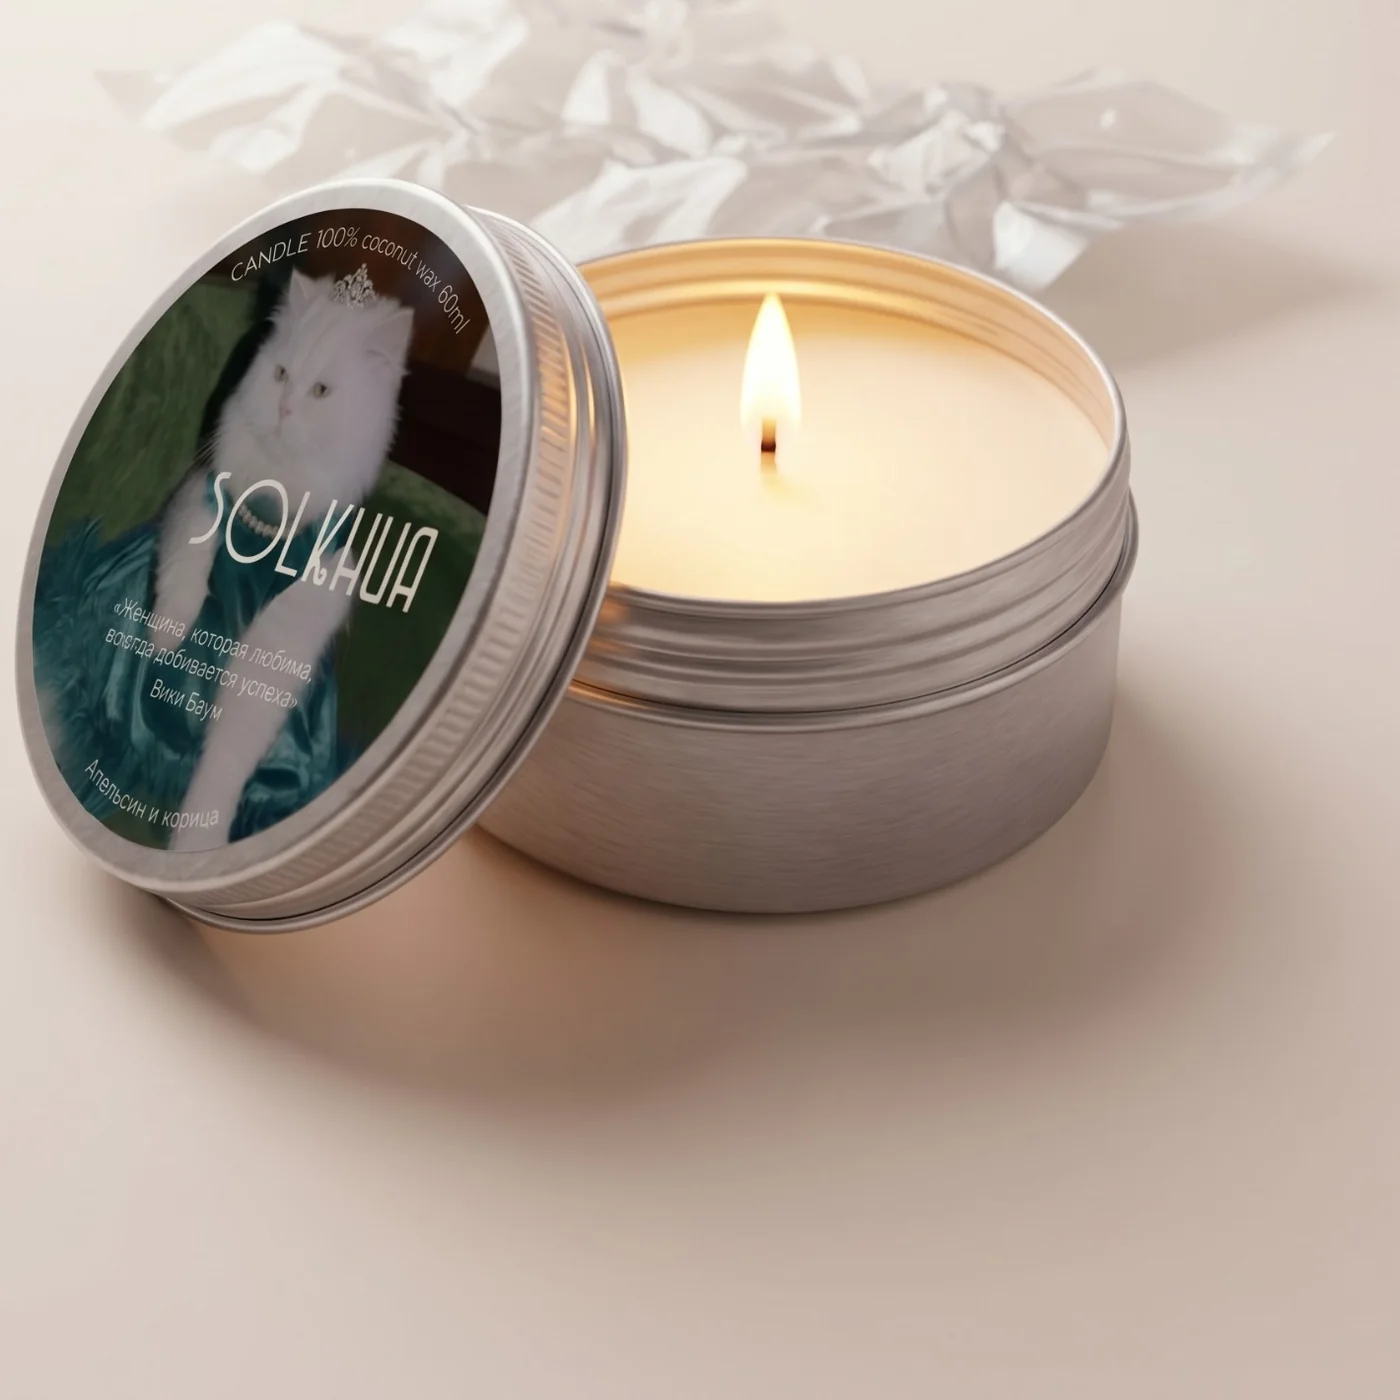
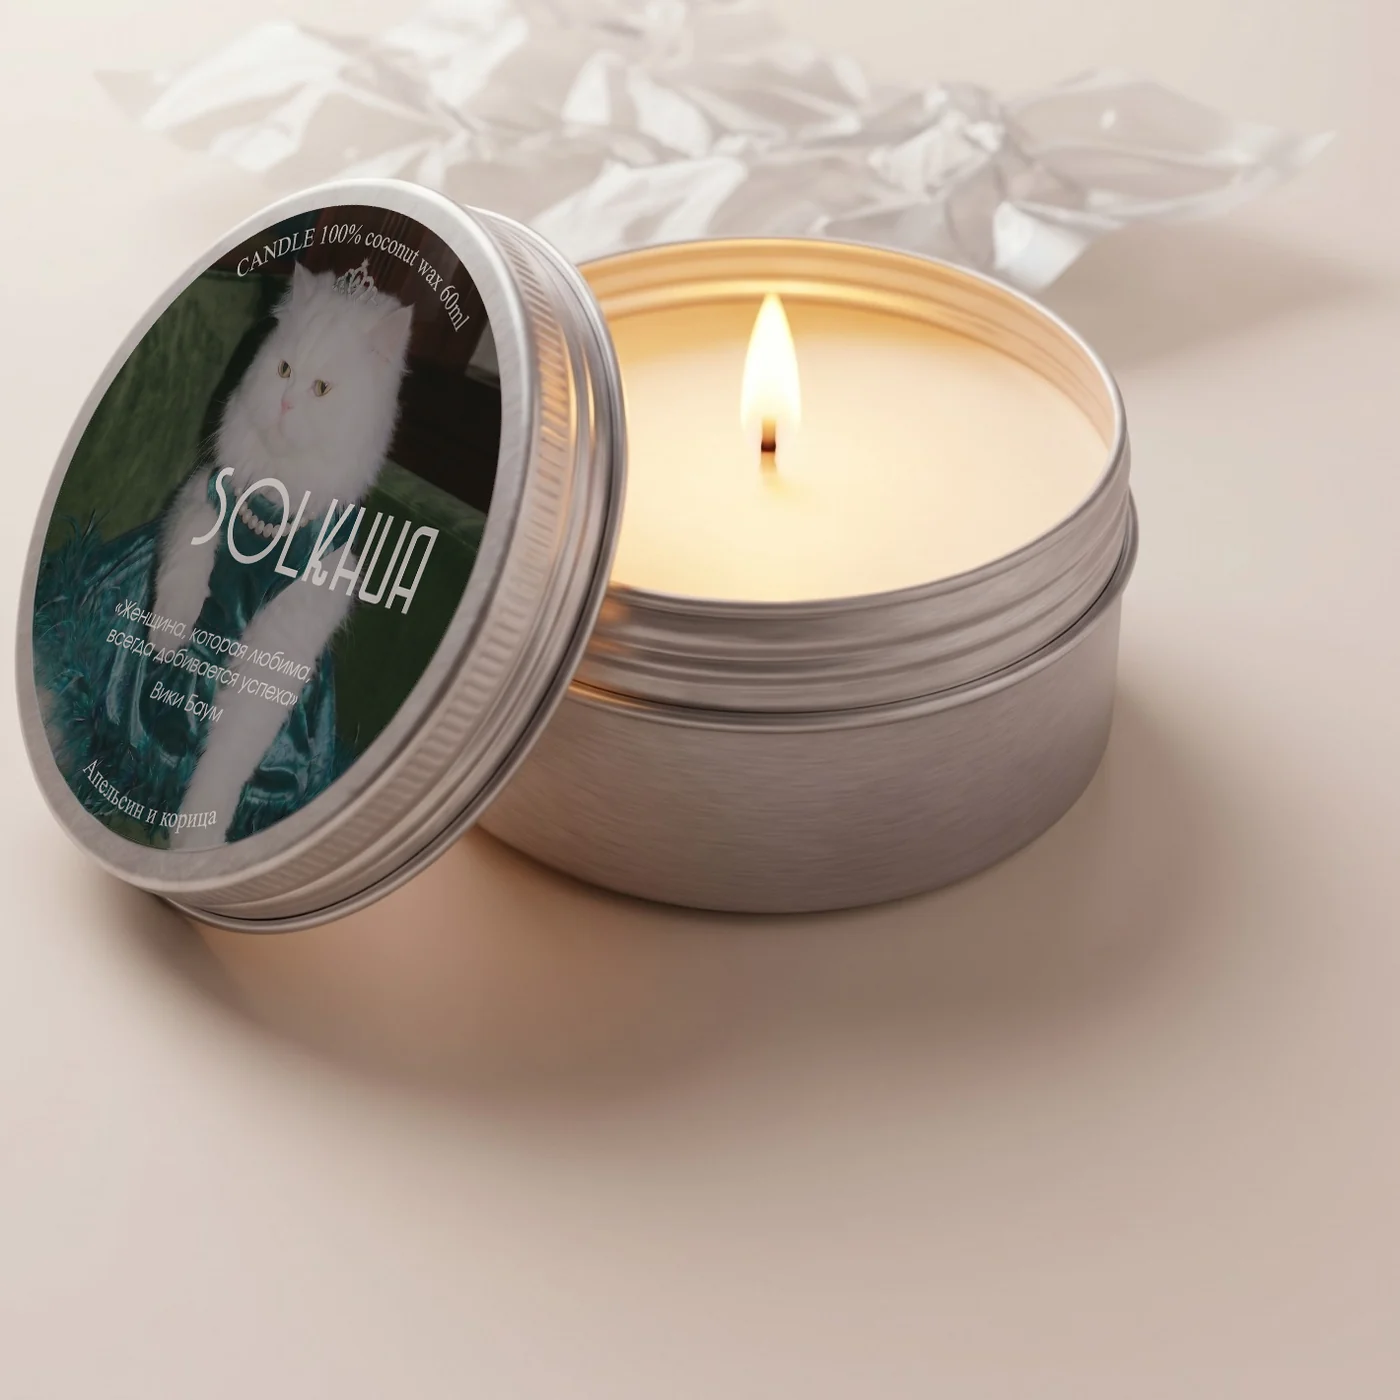
Apply final label artwork to every product photo
- Relabel vacuum, closed-tin, open-tin and lit-candle photos from the supplied
  label PNGs using feature-matched homographies, so lettering is exact and
  follows the lid perspective
- Add closed and open tin shots for all six scents: product gallery,
  catalogue hover and the 'Open' step on the homepage
- Round labels on the site and gemini-kit references now come from the PNGs

Claude-Session: https://claude.ai/code/session_01UpckG1rPkLS9rV3dZvxG6U

diff --git a/assets/css/style.css b/assets/css/style.css
@@ -185,7 +185,10 @@ section{padding-block:clamp(64px,9vw,140px)}
 .card-visual{position:relative}
 .card-media{position:relative;display:block;aspect-ratio:1;border-radius:var(--r);overflow:hidden;background:var(--photo)}
 .card-media img{position:absolute;inset:0;width:100%;height:100%;object-fit:cover;transition:transform 1.2s var(--ease)}
-.card:hover .card-media img{transform:scale(1.06) translateY(-1.5%)}
+.card-media .alt{opacity:0;transform:scale(1.04)}
+.card:hover .card-media .main{opacity:0;transform:scale(1.04)}
+.card:hover .card-media .alt{opacity:1;transform:scale(1)}
+.card-media img{transition:transform 1.1s var(--ease),opacity .7s var(--ease)}
 .card-badge{position:absolute;z-index:2;top:14px;left:14px;padding:.45em .95em;border-radius:999px;background:rgba(255,255,255,.85);font-size:.7rem;letter-spacing:.12em;text-transform:uppercase}
 .card-quick{position:absolute;z-index:2;left:14px;right:14px;bottom:14px;display:flex;justify-content:center;padding:.95em;border:0;border-radius:999px;background:rgba(255,255,255,.9);backdrop-filter:blur(8px);-webkit-backdrop-filter:blur(8px);font-size:var(--s--1);letter-spacing:.14em;text-transform:uppercase;cursor:pointer;opacity:0;transform:translateY(12px);transition:transform .5s var(--ease),opacity .4s,background .3s}
 .card:hover .card-quick,.card-quick:focus-visible{opacity:1;transform:none}
@@ -206,9 +209,9 @@ section{padding-block:clamp(64px,9vw,140px)}
 .frame{position:absolute;inset:0;opacity:0;transform:scale(1.08);transition:opacity .9s var(--ease),transform 1.4s var(--ease)}
 .frame.on{opacity:1;transform:none}
 .frame img{width:100%;height:100%;object-fit:cover}
-.frame-zoom img{transform:scale(2.2);transform-origin:55% 27%}
-.frame-zoom.on img{animation:breathe 5s ease-in-out infinite}
-@keyframes breathe{50%{transform:scale(2.3)}}
+.frame-zoom img{transform:scale(1.25);transform-origin:58% 30%}
+.frame-zoom.on img{animation:breathe 6s ease-in-out infinite}
+@keyframes breathe{50%{transform:scale(1.32)}}
 .flame{position:absolute;left:51.25%;top:40.75%;width:6.5%;height:14%;transform:translate(-50%,-100%);pointer-events:none}
 .flame i{position:absolute;inset:0;border-radius:50% 50% 50% 50%/62% 62% 38% 38%;background:radial-gradient(ellipse at 50% 80%,#fff 0 16%,#fff1c4 28%,#ffbf55 52%,rgba(255,140,40,0) 72%);filter:blur(.5px);transform-origin:50% 100%;animation:flick 1.7s ease-in-out infinite alternate}
 .flame::after{content:"";position:absolute;left:50%;top:62%;width:1000%;height:640%;transform:translate(-50%,-50%);background:radial-gradient(circle,rgba(255,196,110,.42),rgba(255,170,70,0) 60%);animation:glow 2.6s ease-in-out infinite alternate}

diff --git a/assets/js/app.js b/assets/js/app.js
@@ -9,7 +9,7 @@
   const $ = (s, r = document) => r.querySelector(s);
   const $$ = (s, r = document) => [...r.querySelectorAll(s)];
   const money = n => n.toLocaleString("ru-RU") + " " + CFG.currency;
-  const img = (id, kind = "product") => (kind === "product" ? `assets/img/product-${id}.webp` : `assets/img/${kind}-${id}.jpg`);
+  const img = (id, kind = "product") => `assets/img/${kind}-${id}.webp`;
   const esc = s => String(s).replace(/[&<>"]/g, c => ({ "&": "&amp;", "<": "&lt;", ">": "&gt;", '"': "&quot;" }[c]));
 
   /* ---------- storage (safe) ---------- */
@@ -233,6 +233,7 @@
           <a class="card-media" href="product.html?id=${p.id}" data-vt aria-label="${esc(p.name)}">
             ${p.badge ? `<span class="card-badge">${p.badge}</span>` : ""}
             <img class="main" src="${img(p.id)}" alt="Свеча ${esc(p.name)} в вакуумной упаковке" loading="lazy" width="1400" height="1400">
+            <img class="alt" src="${img(p.id, "closed")}" alt="" loading="lazy" width="1400" height="1400">
           </a>
           <button class="card-quick" type="button" data-add="${p.id}">В корзину · ${money(p.price)}</button>
         </div>
@@ -282,7 +283,7 @@
       const id = new URLSearchParams(location.search).get("id");
       const p = byId[id] || PRODUCTS[0];
       document.title = `${p.name} — SOLKHUA`;
-      const shots = [img(p.id), img(p.id, "label")];
+      const shots = [img(p.id), img(p.id, "closed"), img(p.id, "open"), img(p.id, "label")];
       if (p.id === "apelsin-koritsa") shots.push("assets/img/lit-apelsin.webp");
       let qty = 1;
       $("#pdp").innerHTML = `

diff --git a/index.html b/index.html
@@ -60,7 +60,7 @@
       <div class="story-stick">
         <div class="stage" id="stage">
           <div class="frame on"><img src="assets/img/product-palo-santo.webp" alt="Свеча в вакуумной упаковке" loading="lazy"></div>
-          <div class="frame"><img src="assets/img/lit-apelsin.webp" alt="Открытая свеча и крышка с этикеткой" loading="lazy"></div>
+          <div class="frame"><img src="assets/img/open-palo-santo.webp" alt="Открытая свеча «Пало санто» и крышка с этикеткой" loading="lazy"></div>
           <div class="frame frame-zoom"><img src="assets/img/lit-apelsin.webp" alt="Пламя свечи крупным планом" loading="lazy"></div>
           <div class="frame"><img src="assets/img/cats/care.webp" alt="Человек гладит уличного кота" loading="lazy"></div>
         </div>

diff --git a/about.html b/about.html
@@ -28,7 +28,7 @@
 
   <section class="wrap">
     <div class="split-block">
-      <div class="media-r reveal-img"><img src="assets/img/product-apelsin-koritsa.webp" alt="Свеча «Апельсин и корица» в вакуумной упаковке" loading="lazy"></div>
+      <div class="media-r reveal-img"><img src="assets/img/closed-apelsin-koritsa.webp" alt="Свеча «Апельсин и корица»" loading="lazy"></div>
       <div class="reveal d1">
         <span class="eyebrow">Идея</span>
         <h2 style="margin-top:12px">Город, где коты главные</h2>

diff --git a/404.html b/404.html
@@ -19,7 +19,7 @@
 <body data-page="notfound">
 <main id="main">
   <div class="done wrap">
-    <img src="assets/img/label-bergamot.jpg" alt="" style="width:180px;border-radius:50%">
+    <img src="assets/img/label-bergamot.webp" alt="" style="width:180px;border-radius:50%">
     <h1>Кот унёс эту страницу</h1>
     <p class="lead" style="margin-inline:auto">Такой страницы нет. Возможно, ссылка устарела.</p>
     <a class="btn" href="index.html">На главную</a>

diff --git a/README.md b/README.md
@@ -30,7 +30,11 @@
   - `assets/img/product-<id>.webp` — свеча на фоне #EFE9E2 (главная, каталог, карточка товара, корзина).
     Фон сайта (`--milk` в `style.css`) совпадает с фоном этих фото, поэтому свечи выглядят как без фона.
     Новые фото выравнивайте под #EFE9E2 или присылайте мне.
-  - `assets/img/label-<id>.jpg` — этикетка; `assets/img/lit-apelsin.webp` — горящая свеча.
+  - `assets/img/closed-<id>.webp` — банка без упаковки, крышка закрыта (галерея, наведение в каталоге).
+  - `assets/img/open-<id>.webp` — открытая банка, крышка рядом (галерея, блок «Откройте» на главной).
+  - `assets/img/label-<id>.webp` — наклейка; исходники PNG лежат в `gemini-kit/labels/`.
+  - `assets/img/lit-apelsin.webp` — горящая свеча.
+  Наклейки на всех фото наложены из PNG-исходников с учётом перспективы, поэтому текст везде точный.
 - **Фото Петербурга и котов** — Unsplash (бесплатная лицензия Unsplash, указание авторов желательно):
   - `assets/img/spb/bridge.webp` — Ilia Bronskiy, https://unsplash.com (photo-1642021824052-920192524b19)
   - `assets/img/spb/isaac-flowers.webp` — Ilia Bronskiy, https://unsplash.com (photo-1642258483742-a4495842847b)
